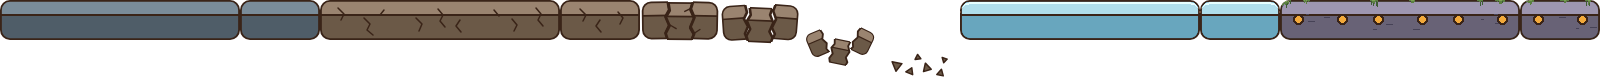
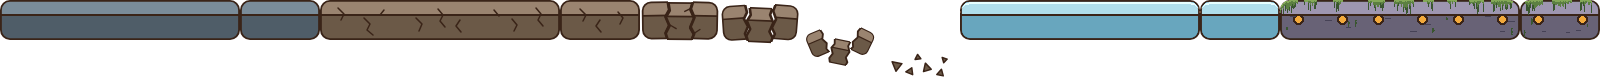
레일 광원을 마디 고정으로 변경하고 발판에 가린 부분은 그리지 않음, 이끼 보강
Claude-Session: https://claude.ai/code/session_01GwLi58Vg8Yr64NgiCFs3y5

diff --git a/fx.py b/fx.py
@@ -21,7 +21,6 @@ _DUST_LIFETIME = 0.35
 _DEBRIS_LIFETIME = 0.5
 
 _flash_elapsed = 0.0
-_rail_phase = 0.0
 _flash_duration = 0.0
 
 _afterimage_timer = 0.0
@@ -62,9 +61,6 @@ def trigger_debris(x, y):
 
 def update(frame_time):
     global _flash_elapsed, _afterimage_timer, _player_airborne, _player_prev_vy
-    global _rail_phase
-
-    _rail_phase += frame_time
 
     if _flash_elapsed < _flash_duration:
         _flash_elapsed += frame_time
@@ -228,7 +224,6 @@ def _draw_light(img, x, y, size, alpha, color=(255, 186, 92)):
 
 
 RAIL_COLOR = (96, 196, 255)
-RAIL_PULSE_SPEED = 420.0
 
 
 def draw_rail_lights():
@@ -250,16 +245,10 @@ def draw_rail_lights():
         count = int(length / 160.0)
         for k in range(count + 1):
             t = min(length, k * 160.0)
-            glow = 38 + 16 * math.sin(_rail_phase * 2.6 + k * 0.9)
-            _draw_light(img, x0 + ux * t, y0 + uy * t, 44, int(glow), RAIL_COLOR)
-        span = length + 240.0
-        head = (_rail_phase * RAIL_PULSE_SPEED) % span
-        for trail, size, peak in ((0.0, 72, 170), (22.0, 58, 110), (44.0, 46, 60),
-                                  (66.0, 38, 32)):
-            t = head - trail
-            if t < 0.0 or t > length:
+            wx = wx0 + (wx1 - wx0) * (t / length)
+            if tl.left_x <= wx <= tl.right_x:
                 continue
-            _draw_light(img, x0 + ux * t, y0 + uy * t, size, peak, RAIL_COLOR)
+            _draw_light(img, x0 + ux * t, y0 + uy * t, 56, 78, RAIL_COLOR)
 
 
 def draw_afterimages():
